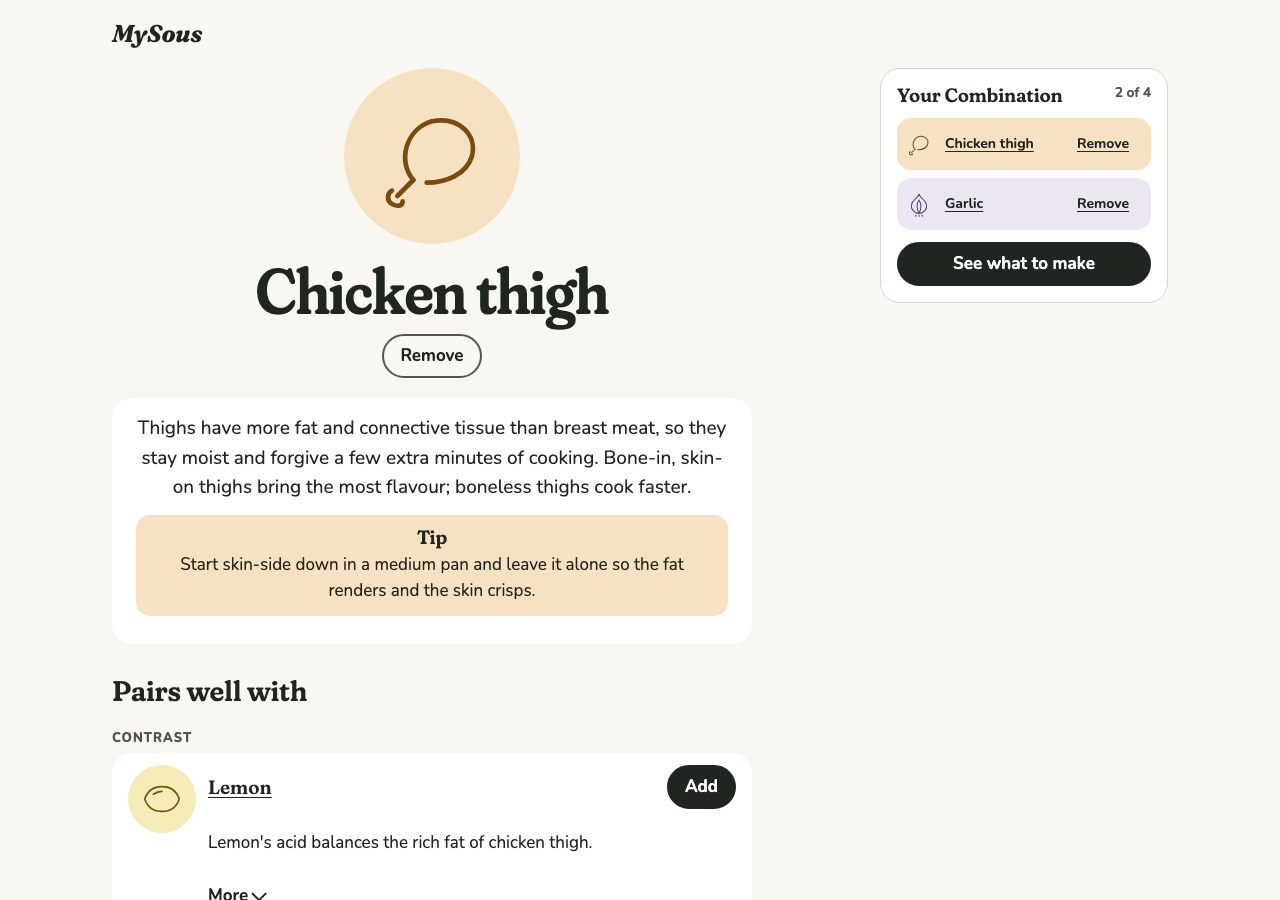
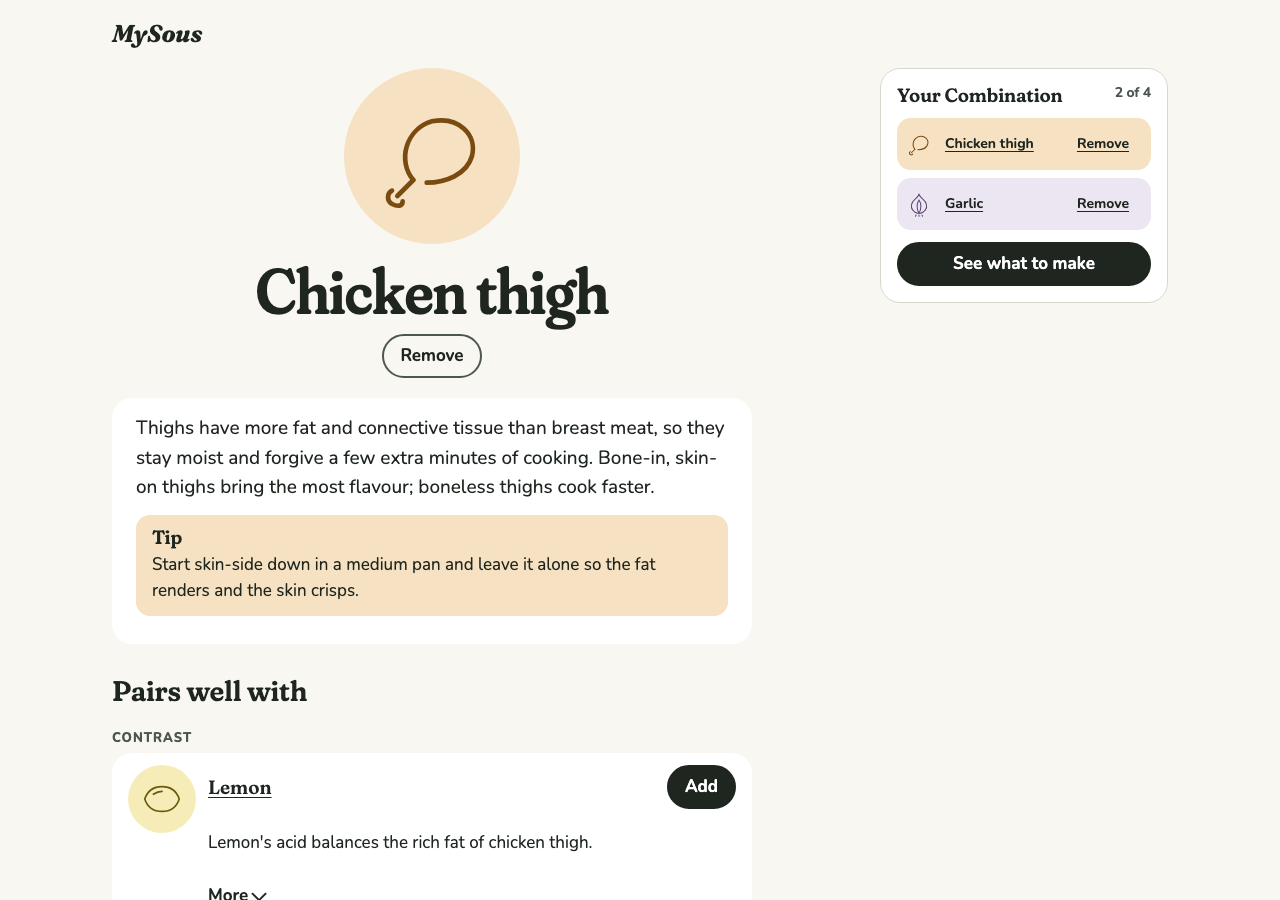
Left-align the Ingredient's about text inside its centred card

Changed region(s): [[0.0938, 0.4667, 0.5625, 0.56], [0.125, 0.5911, 0.5312, 0.6844]]

diff --git a/src/app/globals.css b/src/app/globals.css
@@ -181,8 +181,10 @@ main {
   margin: 0;
 }
 
+/* Centred by the hero; its text reads from the left. */
 .about {
   max-width: var(--measure);
+  text-align: start;
   margin-top: var(--space-2);
   padding: var(--space-4) var(--space-5);
   border-radius: var(--radius-lg);
